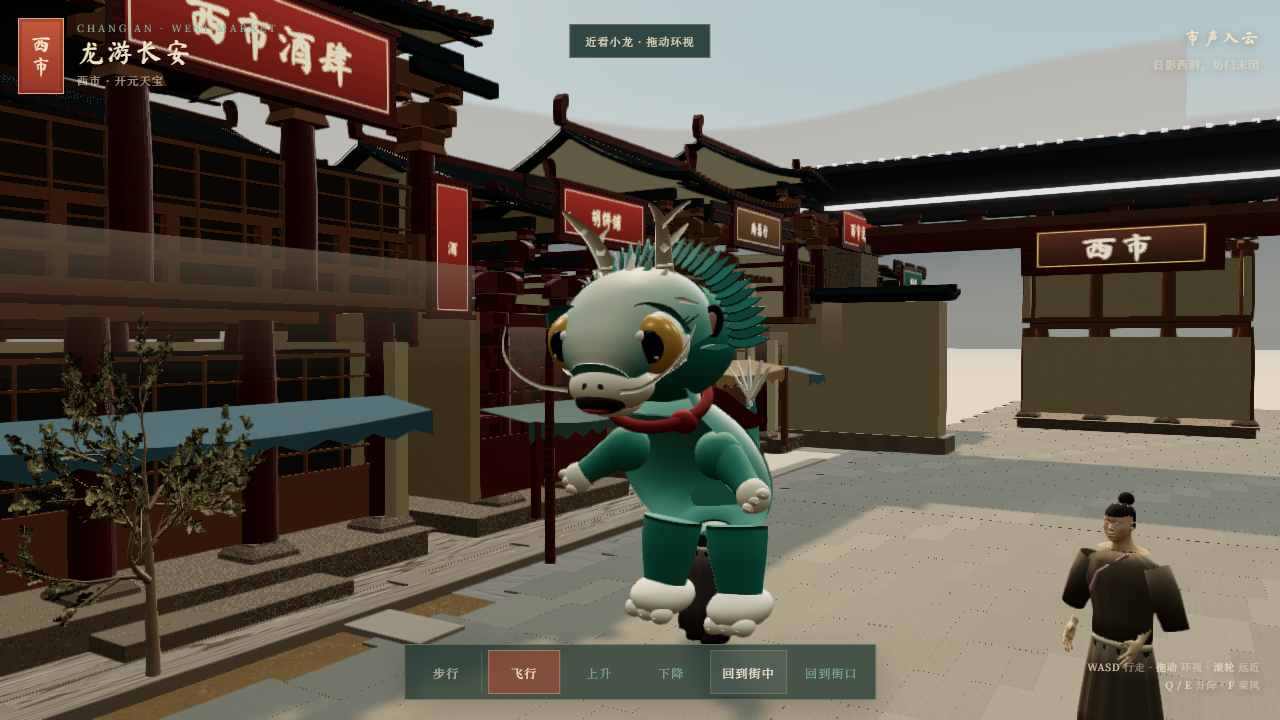
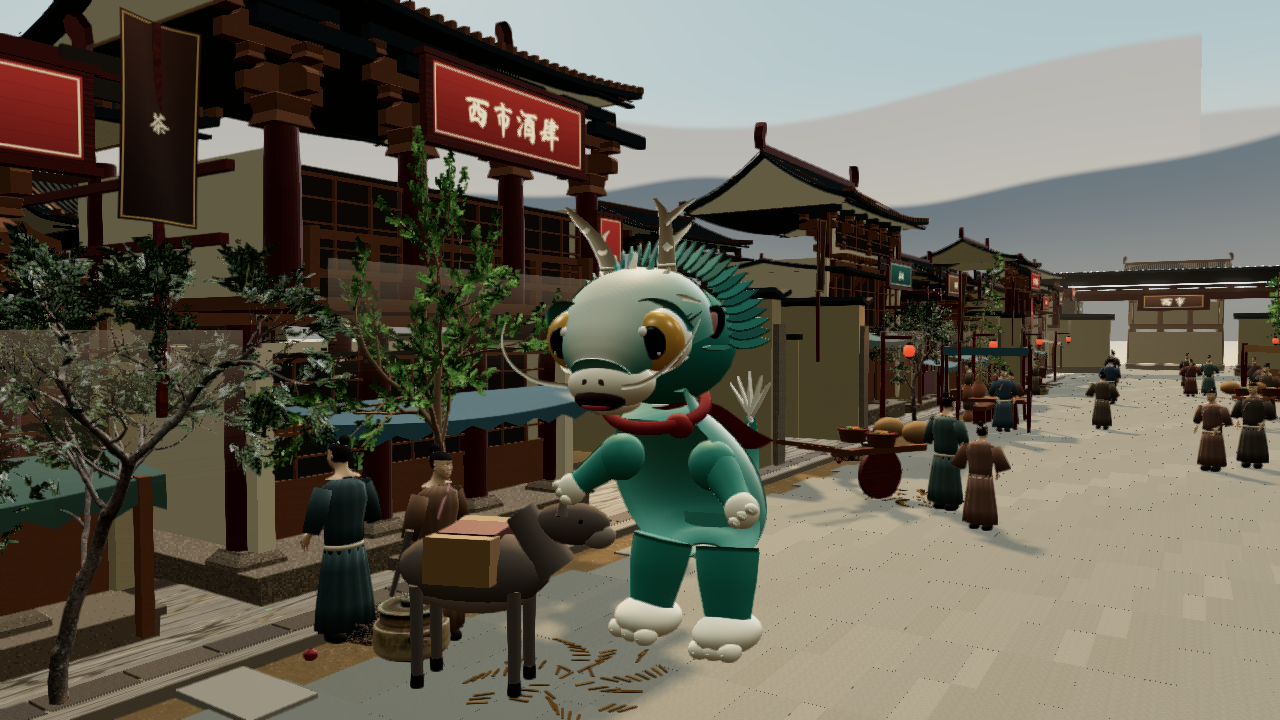
Record the first real test of walking, flying and close inspection

diff --git a/docs/REBUILD_PLAN.md b/docs/REBUILD_PLAN.md
@@ -830,6 +830,25 @@
   而不是凭截图里的一块深色就开始改。
 - 复审 1280×720 / 844×390 均 passed，3862/3892 calls、约 347/351 万三角形。
 
+### 同轮：探索交互实测（第三十五轮，功能验收）
+
+目标要求"龙可步行 / 飞行 / 贴近细看"，此前三十多轮只验证了渲染，从未验证交互。
+本轮第一次驱动真实输入路径：
+
+- **walk 模式**：W 前进、A 转向、S 后退都改变 `state.position` 与 `state.yaw`。
+- **fly 模式**：`setMode('fly')` 后 y 从 0.03 抬到 1.35，W 前进、Q 上升、E 下降。
+- **near 模式**：`near(true)` 后相机拉近到贴身距离，画面可见龙与街景。
+- **teleport**：直接改 position 生效。
+- **无页面错误**（pageerror / console error 均为空）。
+
+- **一处看起来像缺陷、实际不是**：初次测试时按住 W 1.2 秒只前进 0.06m、
+  速度只有 0.53。查下来是**软件渲染只有约 3.3 fps**
+  （`state.frameCount` 3 秒只涨 10 帧），而 `updateMovement` 用 dt 推进，
+  每帧 dt 上限 0.05s，10 帧总共只推进 0.5 秒。移动逻辑本身正确。
+  这再次印证：软件渲染的帧率会让"位移很小"看起来像移动失效。
+- **仍未验证**：真实 GPU 上的帧率与手感、手机真机触摸摇杆。
+  软件渲染的结论不能代替这两项。
+
 ## 决策记录
 
 - 构件几何统一以"底面 z=0"为基准，便于按层堆叠与复用。
